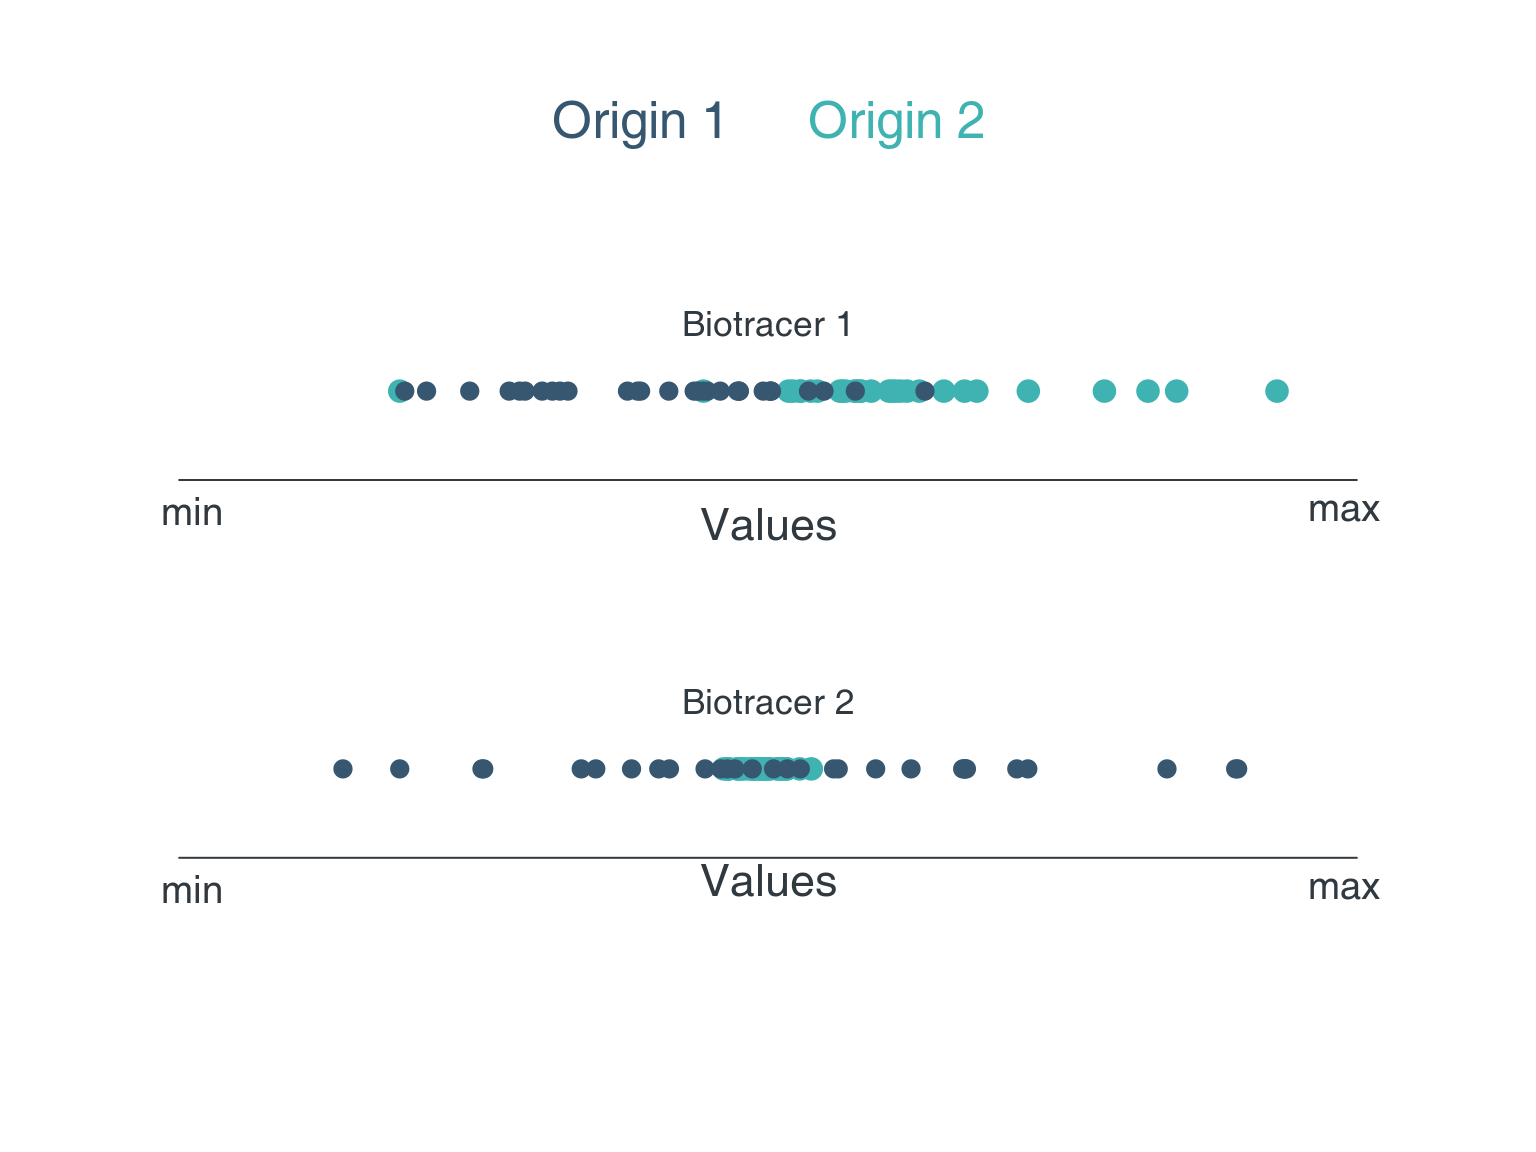
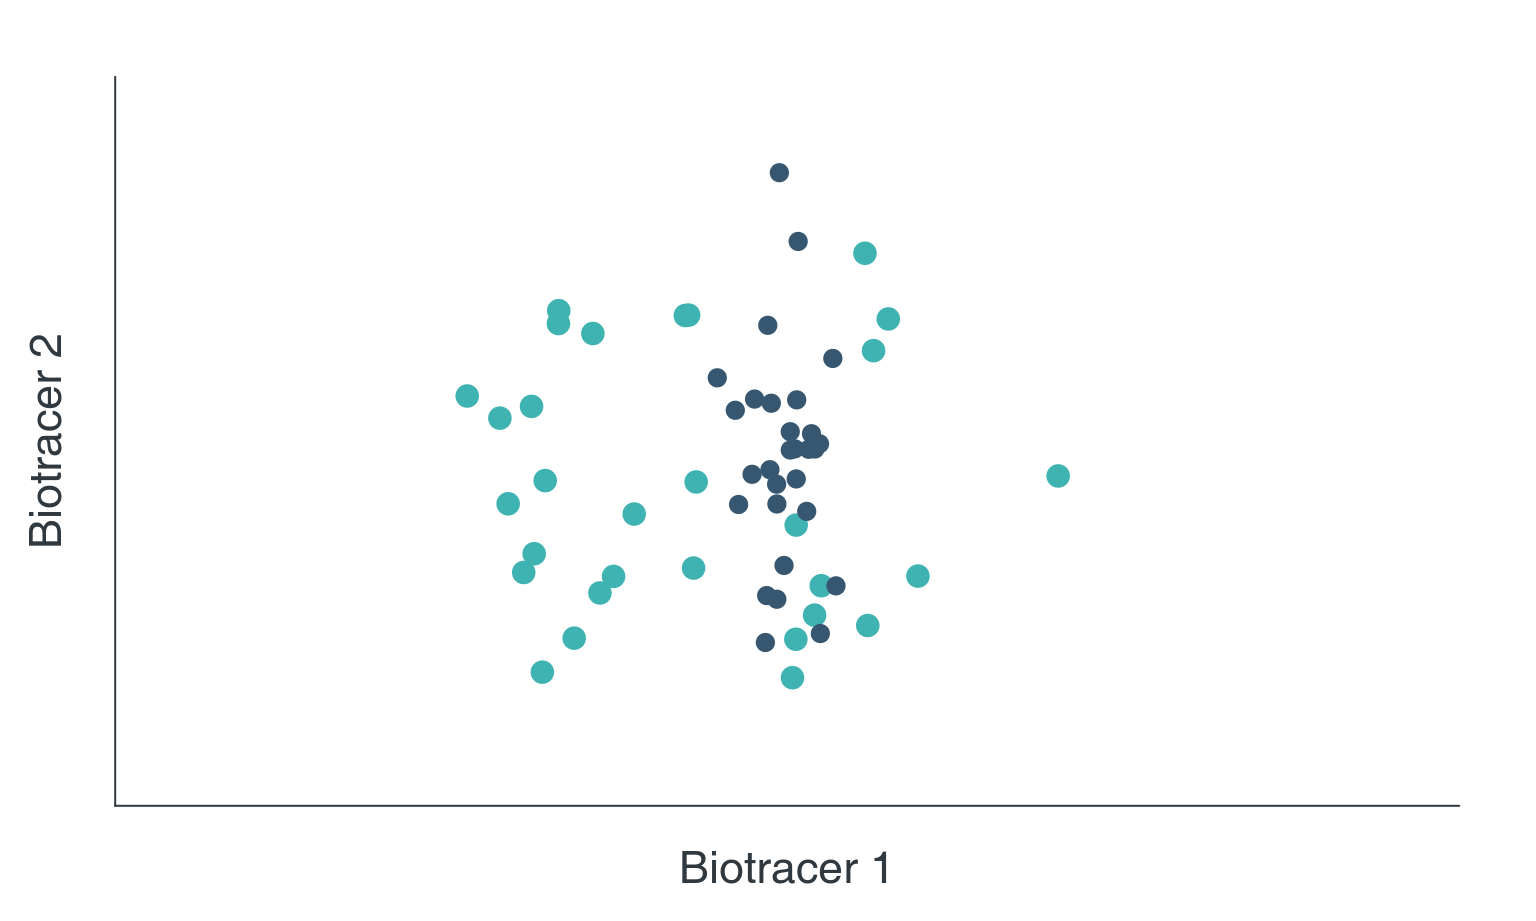
theory outlined

diff --git a/index.html b/index.html
@@ -19,7 +19,7 @@
 
 &lt;img src = "img/logoUoG.png" style = "position:absolute; width:180px; height:100px; top:240px; right:15px;"&gt;&lt;/img&gt;
 
-## &lt;i class="fa fa-angle-double-right" aria-hidden="true"&gt;&lt;/i&gt; Fighting noise with dimensionality
+## ![:faic](angle-double-right) Fighting noise with dimensionality
 
 ##### The more biotracers the better!
 
@@ -197,27 +197,16 @@ class: inverse, center, middle
 
 &lt;img src="index_files/figure-html/fig5-1.png" width="768" style="display: block; margin: auto;" /&gt;
 
+##### ![:faic](angle-double-right) Dimensionality ![:faic](arrow-up) then relative overlap ![:faic](arrow-down)
 
 
 ---
-# Basic ideas
+# Results
 
-```
-seqx &lt;- seq(-10, 10, .1)
-plot0(c(-10, 10), c(0, 2))
-```
+### The more the biotracers the better!
 
-
-
----
-# Extenting to any distribution
-
-The curse of distribution which is actually the strength of achine leraning!
-
-
----
-# Biotracers as spatial distribution
-
+The curse of dimensionality in
+becomes the blessing of dimensionality.
 
 ---
 # Buiilding distribution
@@ -254,22 +243,6 @@ Spatial fingerprint
 extenten to sptail temporal finger print
 
 
-
-
-
----
-
-# Headers (level 1)
-
-## Header 2
-
-### Header 3
-
-#### Header 4
-
-##### Header 5
-
-###### Header 6
 
 
 ---
